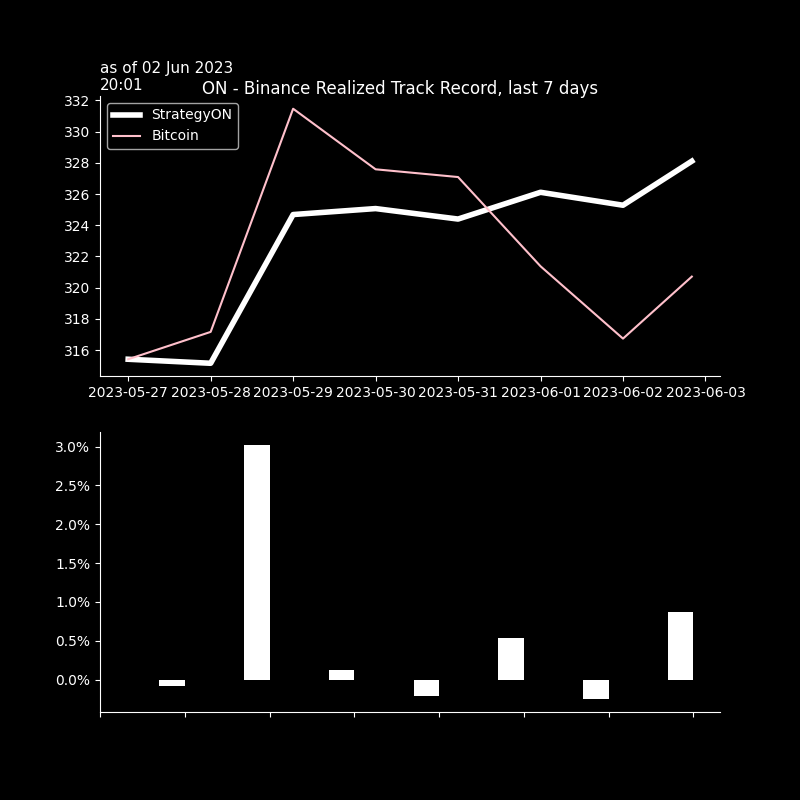
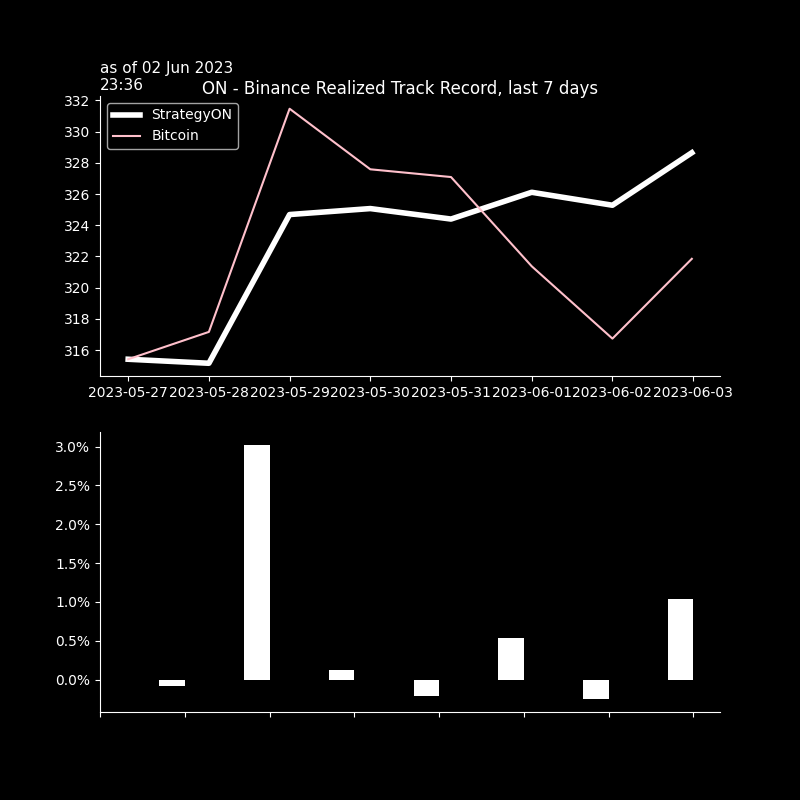
seb_commit

diff --git a/crypto/graphs/bt_trades_book.htmltrade_trades_book.html b/crypto/graphs/bt_trades_book.htmltrade_trades_book.html
@@ -37,55 +37,55 @@
   </thead>
   <tbody>
     <tr>
-      <th>BTCUSDT</th>
-      <td>27045.1000</td>
-      <td>2023-06-02 18:32:58</td>
-      <td>0.006</td>
-      <td>$162.3</td>
-      <td>$0.03</td>
-      <td>1.6</td>
-      <td>0.0</td>
-      <td>27014.85000</td>
-      <td>2023-06-02 19:31</td>
-      <td>-0.2</td>
-      <td>-11.0</td>
-      <td>27026.</td>
-      <td>-0.1</td>
-      <td>-7.0</td>
-    </tr>
-    <tr>
       <th>XRPUSDT</th>
-      <td>0.5183</td>
-      <td>2023-06-02 18:35:05</td>
-      <td>313.700</td>
-      <td>$162.6</td>
+      <td>0.5244</td>
+      <td>2023-06-02 22:32:02.666666752</td>
+      <td>-313.700</td>
+      <td>$-164.5</td>
       <td>$0.03</td>
       <td>1.6</td>
+      <td>1.9</td>
+      <td>0.52435</td>
+      <td>2023-06-02 23:31</td>
       <td>0.0</td>
-      <td>0.51785</td>
-      <td>2023-06-02 19:31</td>
-      <td>-0.1</td>
-      <td>-9.0</td>
-      <td>.5182</td>
-      <td>-0.0</td>
-      <td>-2.0</td>
+      <td>1.0</td>
+      <td>.5253</td>
+      <td>-0.3</td>
+      <td>-17.0</td>
     </tr>
     <tr>
       <th>ETHUSDT</th>
-      <td>1893.4100</td>
-      <td>2023-06-02 18:33:06</td>
-      <td>0.086</td>
-      <td>$162.8</td>
+      <td>1904.3900</td>
+      <td>2023-06-02 22:33:16.000000000</td>
+      <td>-0.086</td>
+      <td>$-163.8</td>
       <td>$0.03</td>
       <td>1.6</td>
-      <td>0.0</td>
-      <td>1890.59500</td>
-      <td>2023-06-02 19:31</td>
-      <td>-0.2</td>
-      <td>-15.0</td>
-      <td>1892.6</td>
+      <td>0.9</td>
+      <td>1904.99500</td>
+      <td>2023-06-02 23:31</td>
       <td>-0.1</td>
-      <td>-4.0</td>
+      <td>-3.0</td>
+      <td>1903.98</td>
+      <td>0.0</td>
+      <td>2.0</td>
+    </tr>
+    <tr>
+      <th>BTCUSDT</th>
+      <td>27230.4000</td>
+      <td>2023-06-02 22:36:01.000000000</td>
+      <td>-0.006</td>
+      <td>$-163.4</td>
+      <td>$0.03</td>
+      <td>1.6</td>
+      <td>1.1</td>
+      <td>27226.55000</td>
+      <td>2023-06-02 23:31</td>
+      <td>0.0</td>
+      <td>1.0</td>
+      <td>27230.3</td>
+      <td>0.0</td>
+      <td>0.0</td>
     </tr>
   </tbody>
 </table>

diff --git a/crypto/graphs/bt_trades_pnlD_recap.htmltrade_trades_pnlD_recap.html b/crypto/graphs/bt_trades_pnlD_recap.htmltrade_trades_pnlD_recap.html
@@ -1,7 +1,7 @@
 <table border="1" class="dataframe">
   <thead>
     <tr style="text-align: right;">
-      <th>02 Jun 19:35</th>
+      <th>02 Jun 23:36</th>
       <th>realizedPnl</th>
       <th>PnLvsArrival</th>
       <th>PnLvsLast</th>
@@ -10,21 +10,21 @@
   <tbody>
     <tr>
       <th>in$</th>
-      <td>0.0</td>
-      <td>-0.6</td>
+      <td>4.0</td>
+      <td>-0.0</td>
       <td>-0.2</td>
     </tr>
     <tr>
-      <th>in bp 487 traded</th>
-      <td>0 bp</td>
-      <td>-11 bp</td>
-      <td>-4 bp</td>
+      <th>in bp 491 traded</th>
+      <td>81 bp</td>
+      <td>-0 bp</td>
+      <td>-5 bp</td>
     </tr>
     <tr>
-      <th>in bp 324 AUMs</th>
-      <td>0 bp</td>
-      <td>-17 bp</td>
-      <td>-6 bp</td>
+      <th>in bp 328 AUMs</th>
+      <td>120 bp</td>
+      <td>-0 bp</td>
+      <td>-7 bp</td>
     </tr>
   </tbody>
 </table>

diff --git a/crypto/graphs/bt_trades_recap.htmltrade_trades_recap.html b/crypto/graphs/bt_trades_recap.htmltrade_trades_recap.html
@@ -9,32 +9,32 @@
   <tbody>
     <tr>
       <th>as of</th>
-      <td>02Jun 18:32&gt;&gt;18:35</td>
+      <td>02Jun 22:32&gt;&gt;22:36</td>
       <td>#trades: 3</td>
     </tr>
     <tr>
       <th>trade net</th>
-      <td>+488.0</td>
-      <td>+150.2%</td>
+      <td>-492.0</td>
+      <td>-149.6%</td>
     </tr>
     <tr>
       <th>trade gross</th>
-      <td>+488.0</td>
-      <td>+150.2%</td>
+      <td>+492.0</td>
+      <td>+149.6%</td>
     </tr>
     <tr>
       <th>BUY</th>
-      <td>+488.0</td>
-      <td>+150.2%</td>
-    </tr>
-    <tr>
-      <th>SELL</th>
       <td>+0.0</td>
       <td>+0.0%</td>
     </tr>
     <tr>
+      <th>SELL</th>
+      <td>-492.0</td>
+      <td>-149.6%</td>
+    </tr>
+    <tr>
       <th>fees</th>
-      <td>$ 0.078</td>
+      <td>$ 0.079</td>
       <td>1.6bp</td>
     </tr>
   </tbody>
